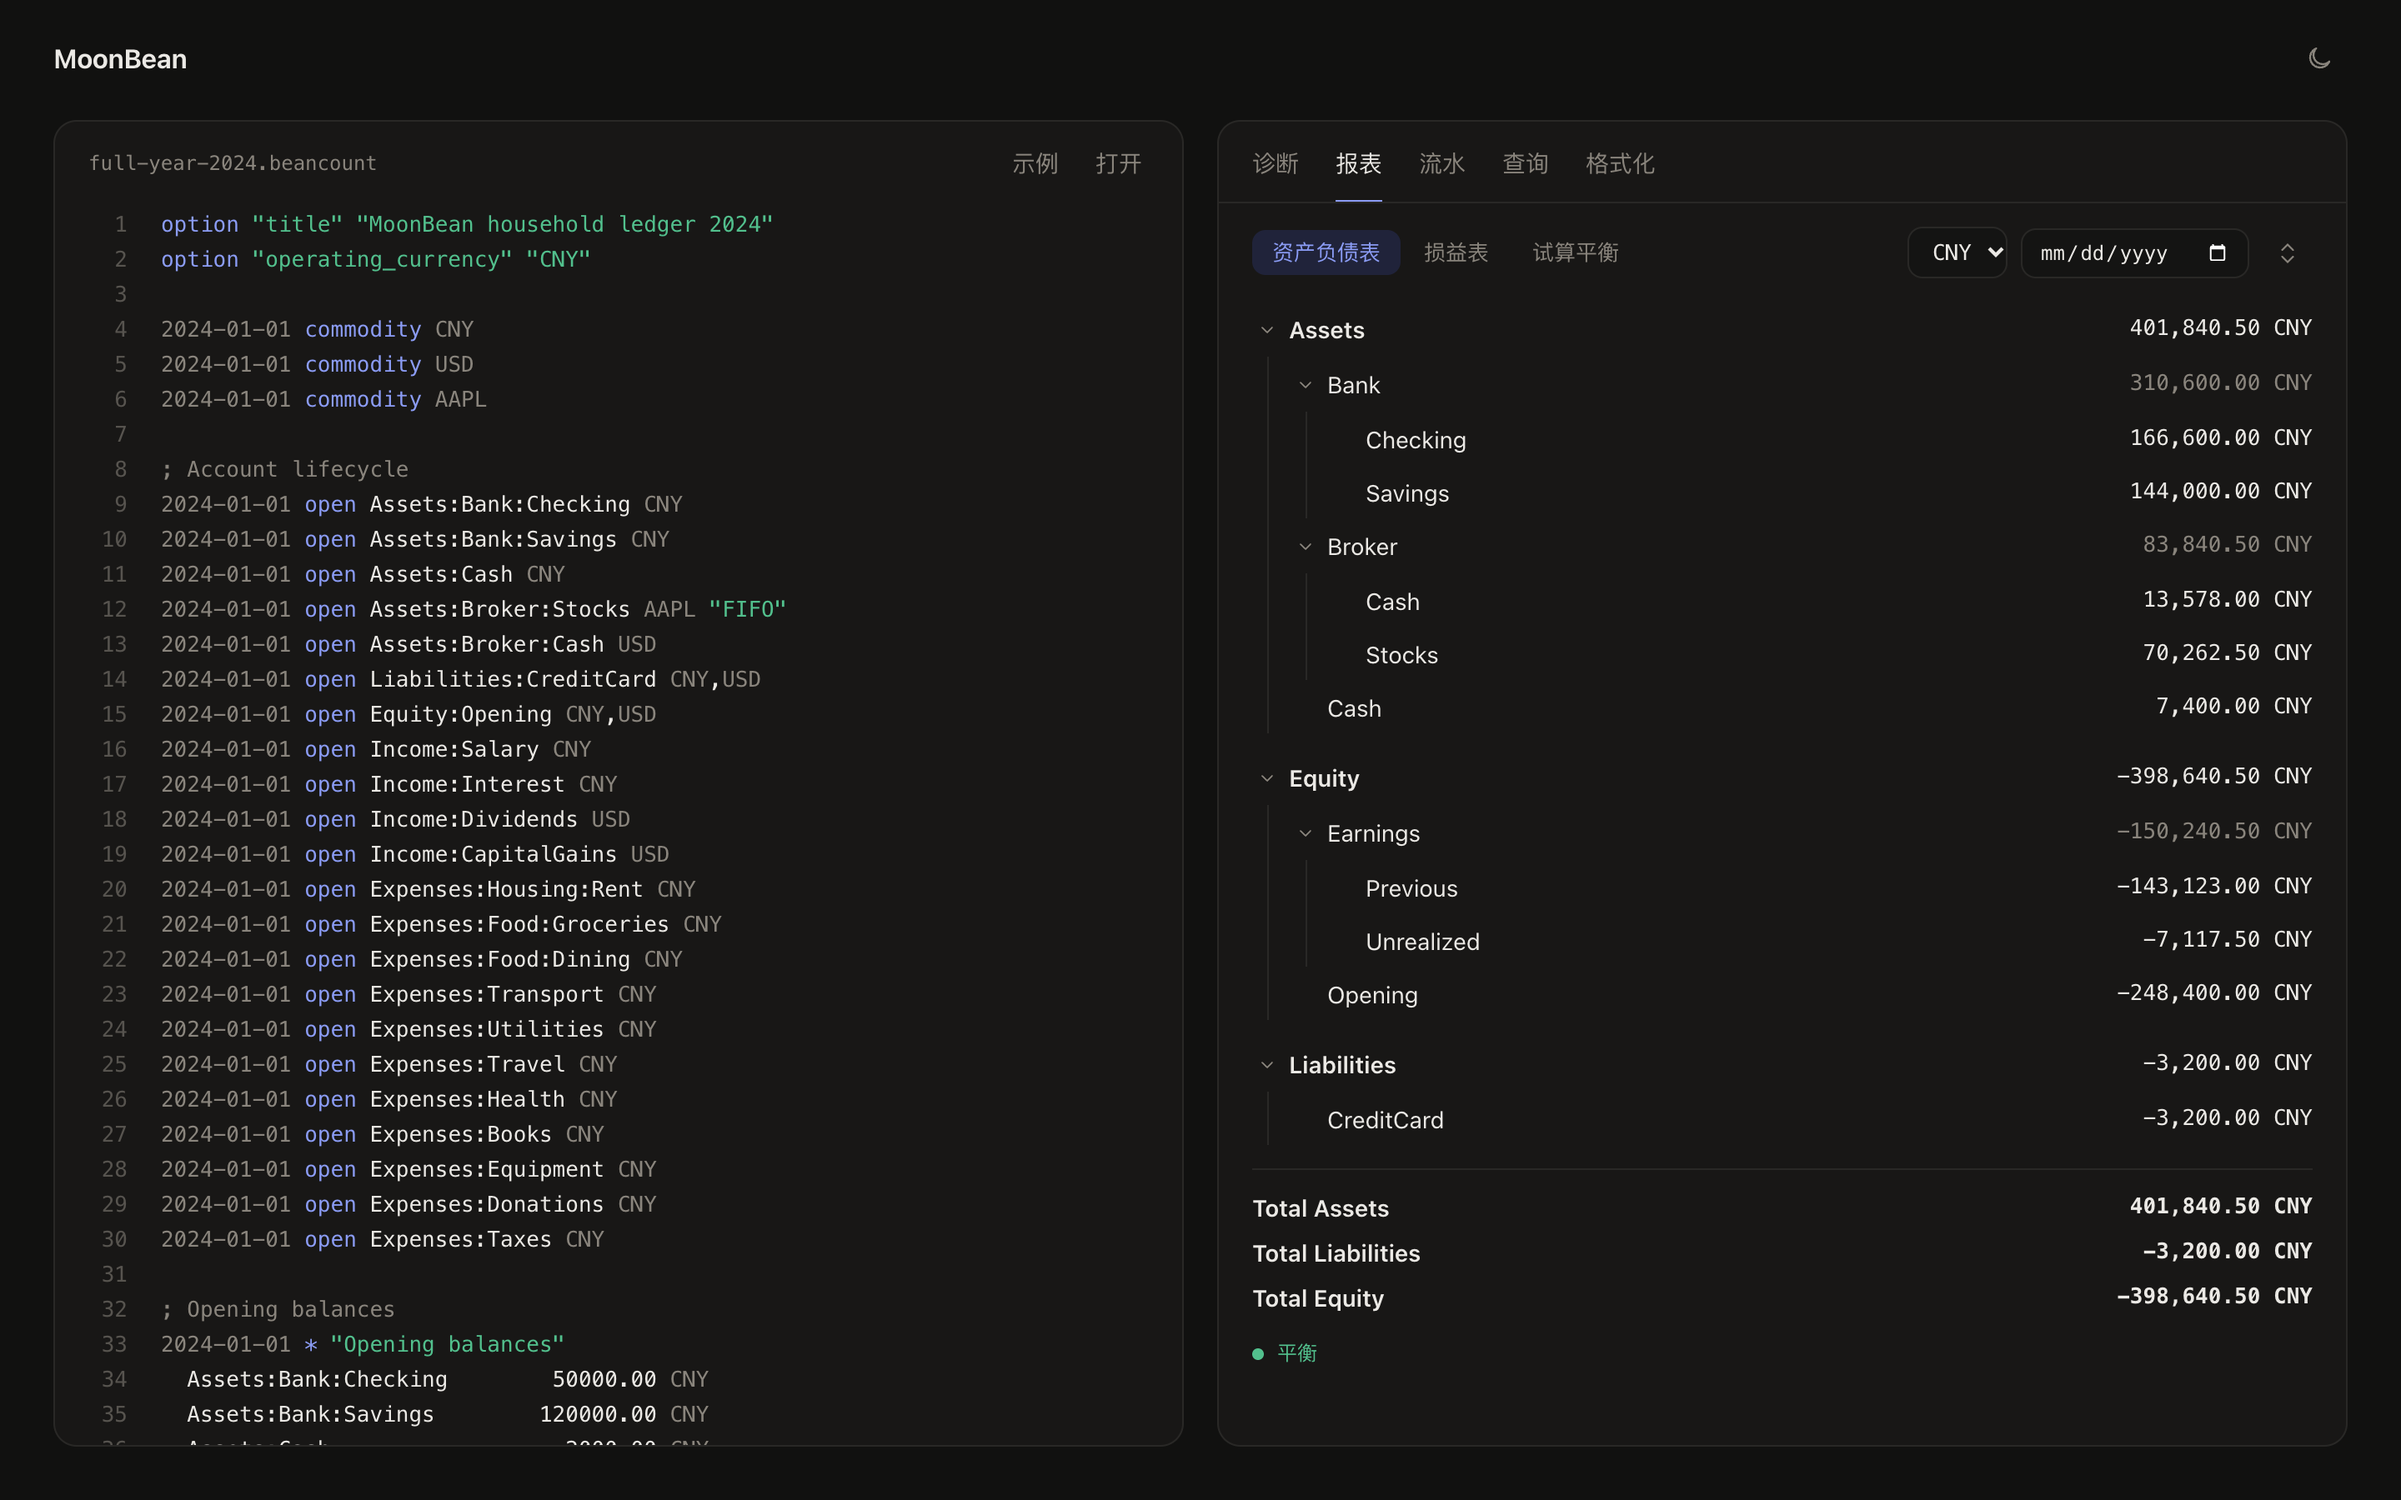
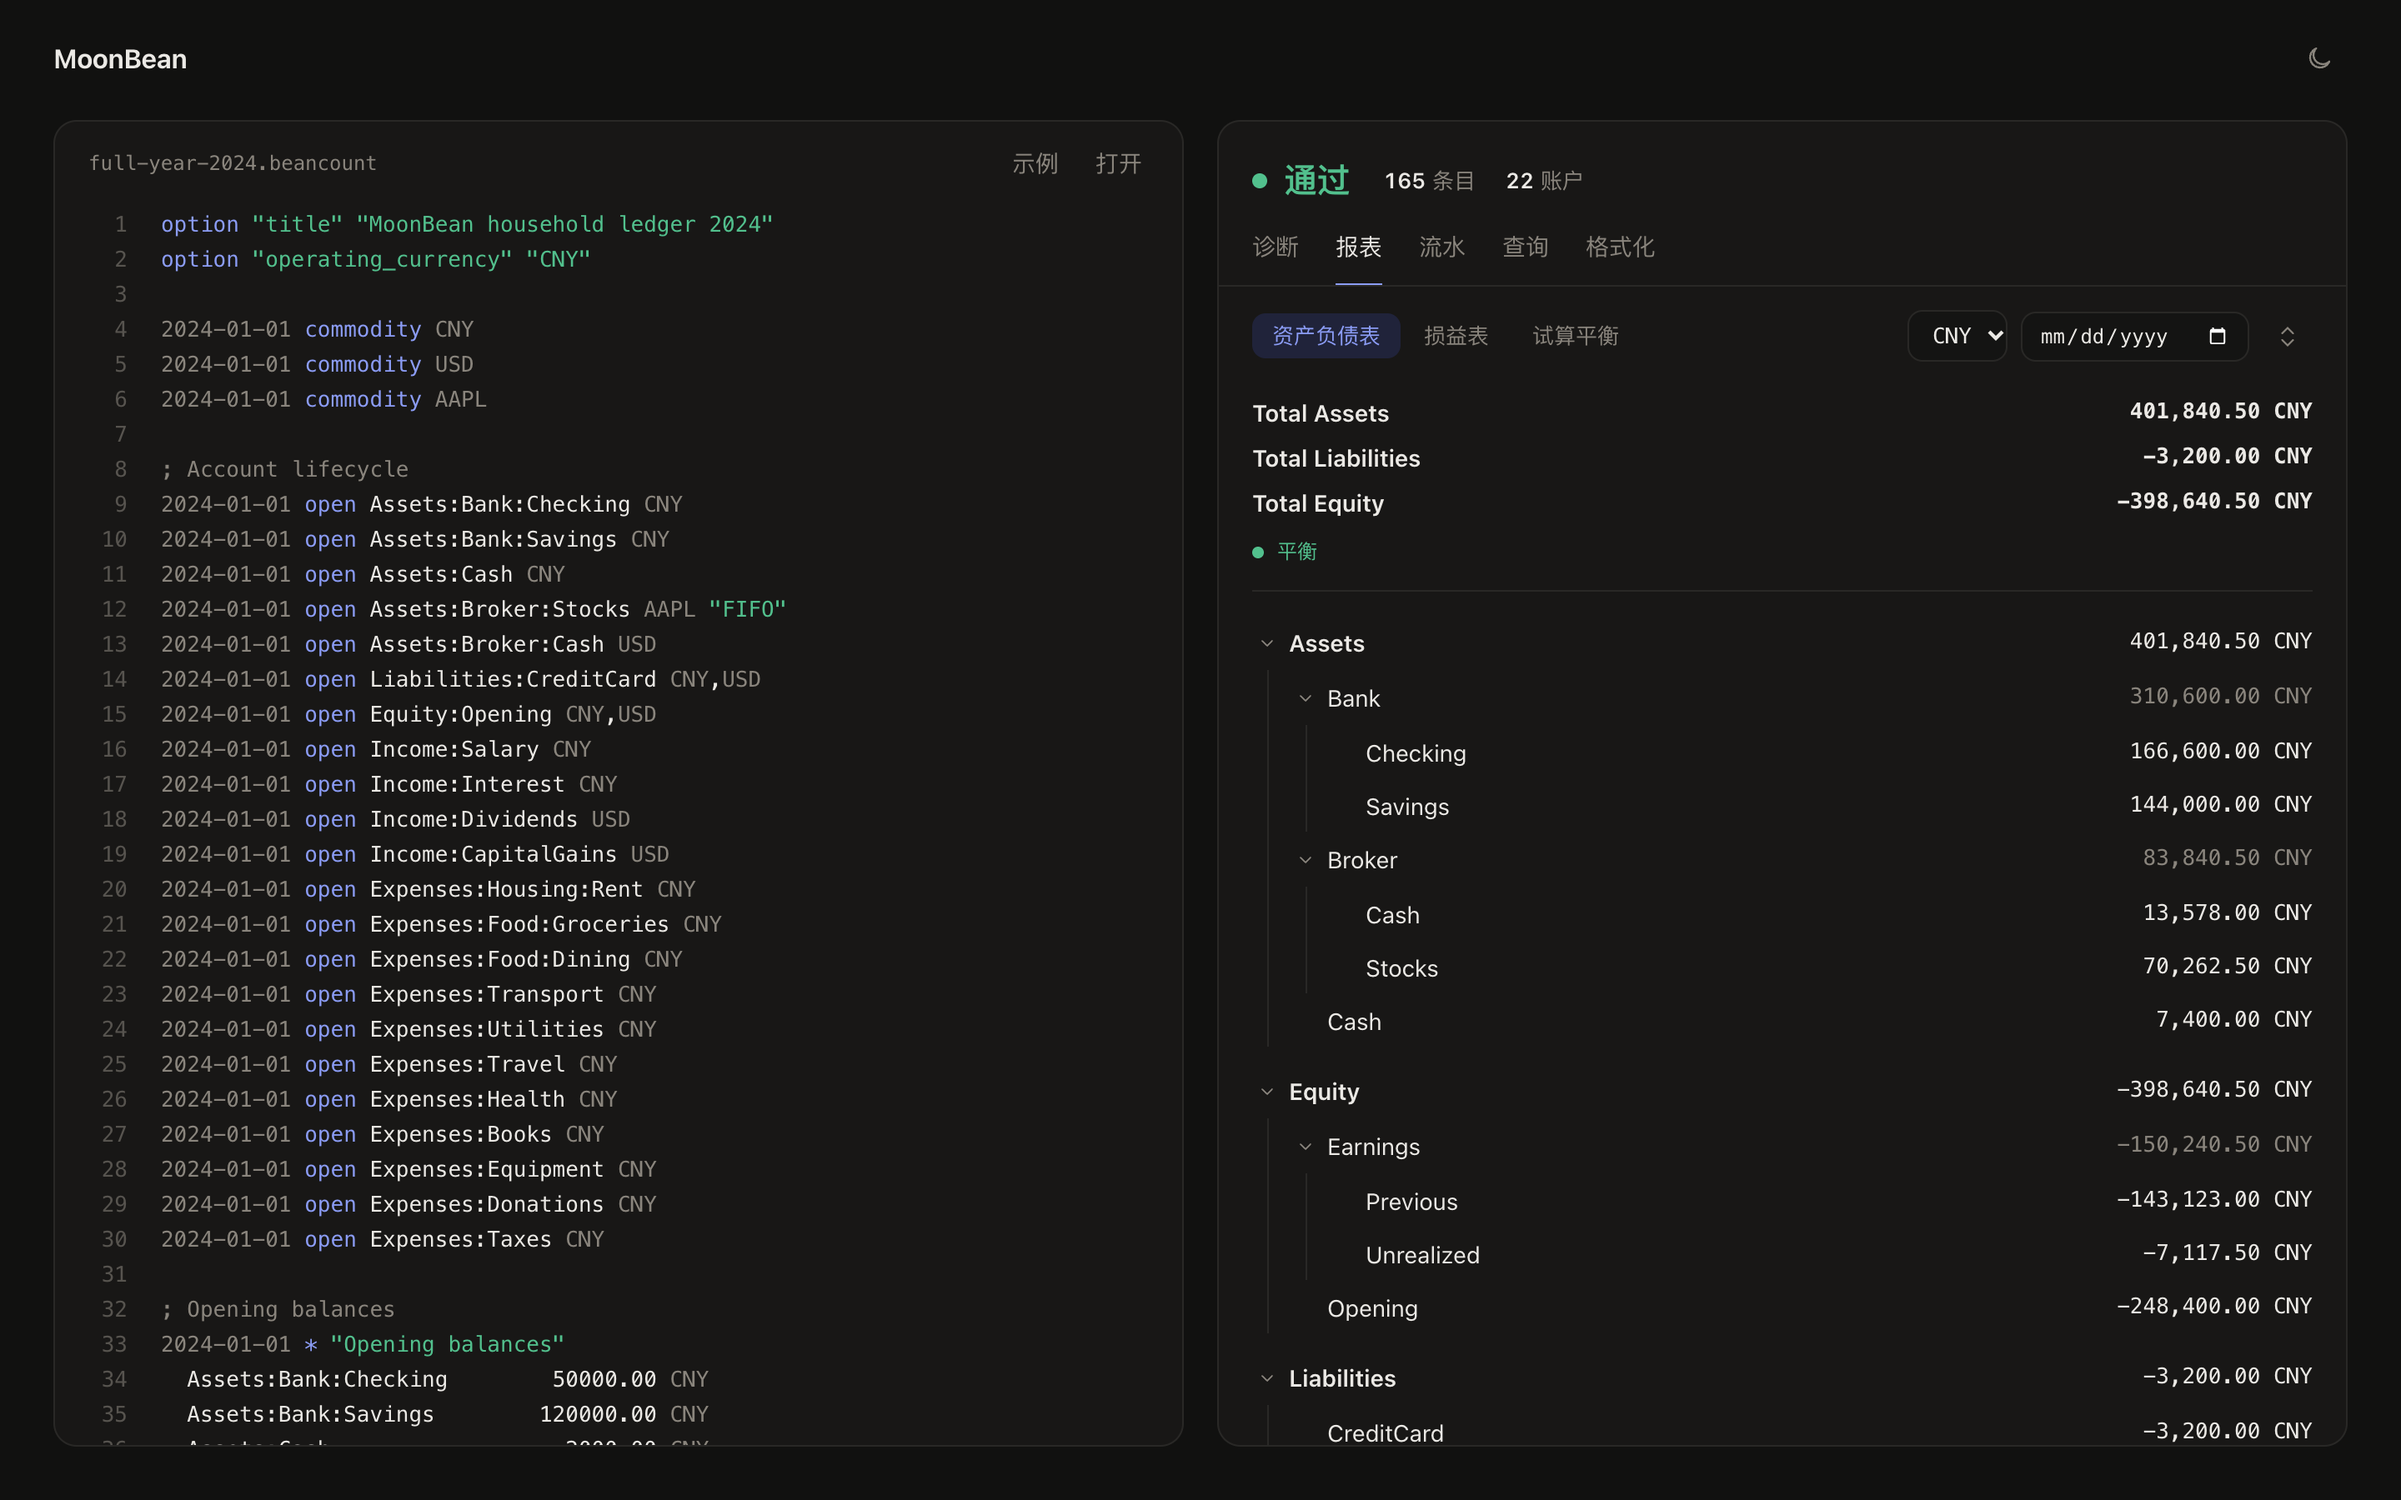
feat(web): open the playground on the report with a persistent verdict strip
The verdict and entry/account counts now sit above the tabs, and the
balance sheet is the default tab with its totals ahead of the account
tree, so the first screen shows the result without another click. The
browser check covers the default view, the 390px width and the error
path.

diff --git a/web/app.js b/web/app.js
@@ -51,7 +51,7 @@ function option(value, label) {
 
 const state = {
   fileName: example.name,
-  tab: "diagnostics",
+  tab: "reports",
   kind: "balance_sheet",
   convert: null,
   at: "",
@@ -309,10 +309,6 @@ function renderReport() {
     tag.hidden = false;
     tag.title = report.diagnostics.map((d) => `${d.account}  ${d.currency} → ${d.target}`).join("\n");
   }
-  // Rows are the engine's leaf amounts; the tree only groups them for folding.
-  const tree = el("div", "tree");
-  for (const root of buildTree(report.rows)) tree.append(renderNode(root, 0));
-  host.append(tree);
   // Totals are the engine's own, already grouped by currency when needed.
   const totals = el("div", "totals");
   for (const total of report.totals) {
@@ -322,6 +318,10 @@ function renderReport() {
     totals.append(el("div", `balance ${data.balanced ? "ok" : "no"}`, data.balanced ? "平衡" : "不平衡"));
   }
   if (totals.children.length) host.append(totals);
+  // Rows are the engine's leaf amounts; the tree only groups them for folding.
+  const tree = el("div", "tree");
+  for (const root of buildTree(report.rows)) tree.append(renderNode(root, 0));
+  host.append(tree);
 }
 
 function errorBlock(data) {
@@ -620,7 +620,7 @@ $("theme").addEventListener("click", () => {
 syncKind();
 setSource(example.source, example.name);
 const initial = location.hash.slice(1);
-selectTab(["diagnostics", "reports", "register", "query", "format"].includes(initial) ? initial : "diagnostics");
+selectTab(["diagnostics", "reports", "register", "query", "format"].includes(initial) ? initial : "reports");
 
 window.addEventListener("hashchange", () => {
   const tab = location.hash.slice(1);

diff --git a/web/style.css b/web/style.css
@@ -304,7 +304,7 @@ textarea#bql { flex: 1; min-width: 0; resize: vertical; line-height: 1.5; white-
 .query-bar .primary { align-self: flex-start; }
 
 /* diagnostics */
-.summary { display: flex; align-items: center; gap: 20px; padding: 22px 20px 8px; }
+.summary { display: flex; flex-wrap: wrap; align-items: baseline; gap: 4px 20px; padding: 20px 20px 0; }
 .verdict { display: flex; align-items: center; gap: 10px; font-size: 20px; font-weight: 600; letter-spacing: -0.01em; }
 .verdict::before { content: ""; width: 9px; height: 9px; border-radius: 50%; background: currentColor; }
 .verdict.ok { color: var(--ok); }
@@ -384,7 +384,7 @@ td.dim, .dim { color: var(--muted); }
 .tree .root:first-child { padding-top: 0; }
 .tree .node:not(.root) > .row .label { font-weight: 400; }
 .tree .node.open:not(.root) > .row .amts { color: var(--muted); }
-.totals { margin-top: 14px; padding-top: 6px; border-top: 1px solid var(--line); }
+.totals { margin-bottom: 14px; padding-bottom: 14px; border-bottom: 1px solid var(--line); }
 .total { display: flex; align-items: flex-start; gap: 12px; padding: 6px 0 0; font-weight: 600; }
 .total .label { flex: 1; min-width: 0; }
 .total .amts { flex: none; display: flex; flex-direction: column; align-items: flex-end; font: 600 13px/1.55 var(--mono); font-variant-numeric: tabular-nums; }
@@ -394,7 +394,7 @@ td.dim, .dim { color: var(--muted); }
   display: inline-flex;
   align-items: center;
   gap: 8px;
-  margin-top: 14px;
+  margin-top: 10px;
   font-size: 12px;
 }
 .balance::before { content: ""; width: 7px; height: 7px; border-radius: 50%; background: currentColor; }

diff --git a/web/index.html b/web/index.html
@@ -35,6 +35,7 @@
   </section>
 
   <section class="card" id="result-card">
+    <div class="summary" id="summary"></div>
     <div class="tabs" role="tablist" id="tabs">
       <button type="button" role="tab" data-tab="diagnostics">诊断<span class="badge" id="badge" hidden></span></button>
       <button type="button" role="tab" data-tab="reports">报表</button>
@@ -43,12 +44,11 @@
       <button type="button" role="tab" data-tab="format">格式化</button>
     </div>
 
-    <div class="panel" id="panel-diagnostics" role="tabpanel">
-      <div class="summary" id="summary"></div>
+    <div class="panel" id="panel-diagnostics" role="tabpanel" hidden>
       <ul class="issues" id="issues"></ul>
     </div>
 
-    <div class="panel" id="panel-reports" role="tabpanel" hidden>
+    <div class="panel" id="panel-reports" role="tabpanel">
       <div class="bar">
         <div class="seg small" id="report-kind">
           <button type="button" data-kind="balance_sheet">资产负债表</button>
